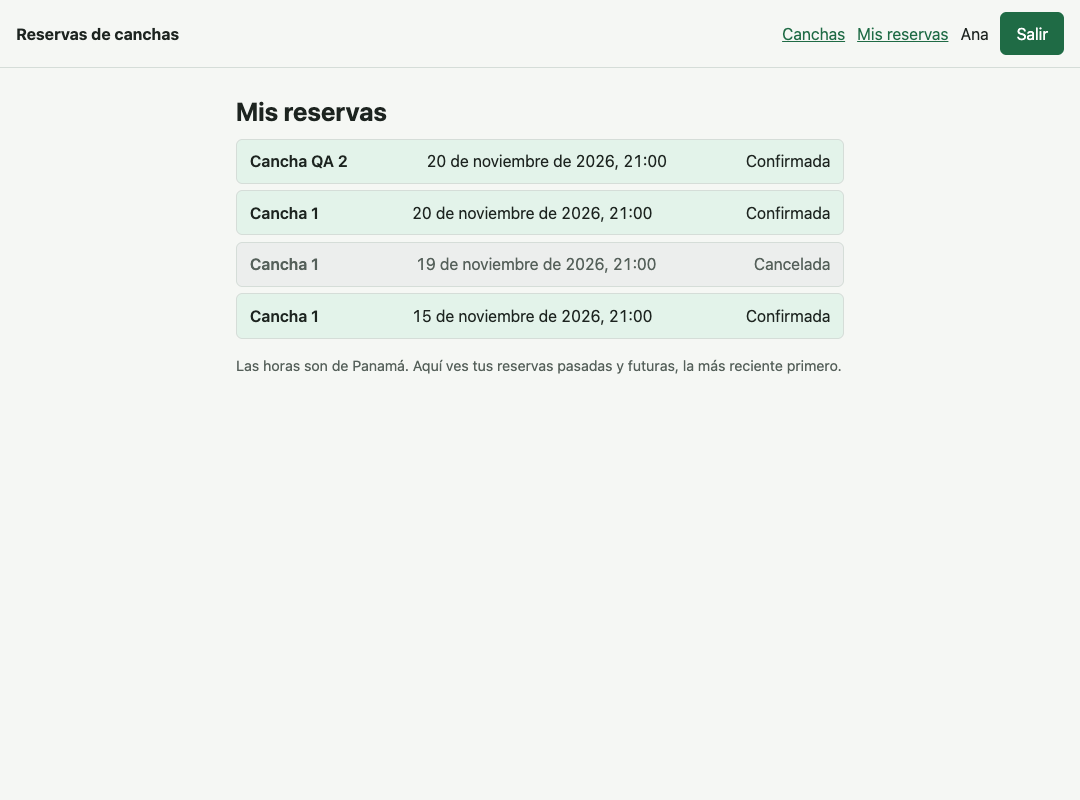
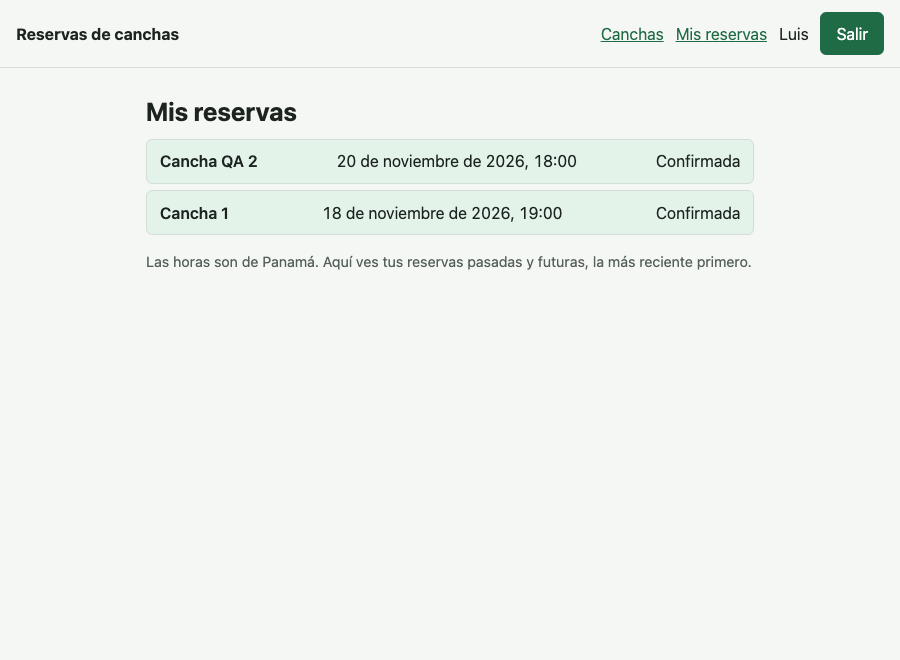
docs(qa): distinguir la evidencia sin Internet de AC19 (#10)

diff --git a/docs/evidencia-c5/qa-navegador-parte-1.md b/docs/evidencia-c5/qa-navegador-parte-1.md
@@ -9,6 +9,20 @@ Usé Chrome 143.0.7499.170 y un checkout con una base SQLite nueva. Fijé el rel
 | AC15, alcance, orden y hora | Ana vio solo sus cuatro reservas. Las dos del 20/11 a las 21:00 se ordenaron por ID descendente (primero Cancha QA 2). Después se mostró la cancelada del 19/11 y al final la confirmada del 15/11. Las 21:00 se mostraron en hora de Panamá, aunque ese instante corresponde al día siguiente a las 02:00 en UTC. | [Vista de Ana](qa-ac15-ana.png) |
 | AC15, privacidad y estado | Luis vio únicamente sus dos confirmadas, del 20/11 a las 18:00 y del 18/11 a las 19:00, en ese orden. Las consultas conservaron las filas de SQLite. | [Vista de Luis](qa-ac15-luis.png) |
 | AC26 | El GET anónimo a `/mis-reservas/` devolvió 302 al inicio de sesión con `next=/mis-reservas/`. La pantalla de acceso no mostró reservas. El POST de acceso devolvió 303 y Ana volvió a «Mis reservas». Antes de reservar, vio el mensaje de historial vacío. | [Acceso solicitado](qa-ac26-sin-sesion.png) |
-| AC19, «Mis reservas» | En un contexto de Chrome limitado a `127.0.0.1`, la navegación externa de control falló con `ERR_INTERNET_DISCONNECTED`. La página del historial y su CSS local devolvieron 200, se mostraron las cuatro filas de Ana y la app no solicitó recursos externos. | [Historial sin acceso a Internet](qa-ac19-mis-reservas-local.png) |
+| AC19, «Mis reservas» | En un contexto de Chrome limitado a `127.0.0.1`, la navegación externa de control falló con `ERR_INTERNET_DISCONNECTED`. En una segunda corrida con Luis, el acceso regresó al historial, donde se mostraron sus dos filas. La página y el CSS local devolvieron 200. | [Historial sin acceso a Internet](qa-ac19-mis-reservas-local.png) |
+
+Registro real de AC19 en la sesión aislada de Luis:
+
+```text
+Chrome 143.0.7499.170
+Control ["https://qa-control.invalid/","net::ERR_INTERNET_DISCONNECTED"]
+GET /mis-reservas/ 302
+GET /cuentas/entrar/ 200
+GET /static/reservas/estilo.css 200
+POST /cuentas/entrar/ 303
+GET /mis-reservas/ 200
+GET /static/reservas/estilo.css 200
+Historial de Luis: 2 confirmadas en hora de Panamá
+```
 
 La prueba del botón de cancelación de AC27 queda para la parte 2 de C5, después de integrar el endpoint de C4.
